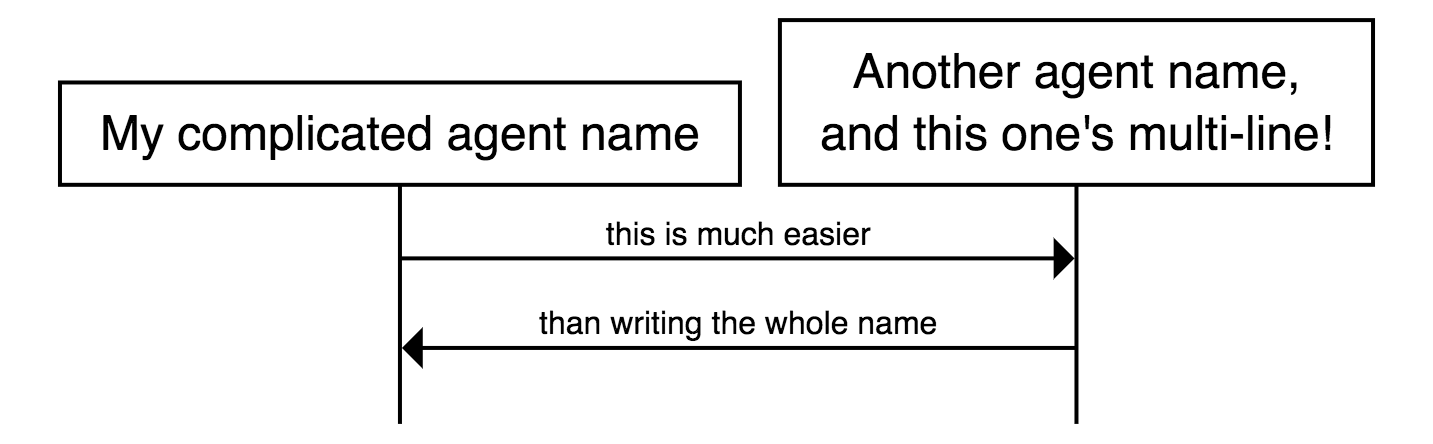
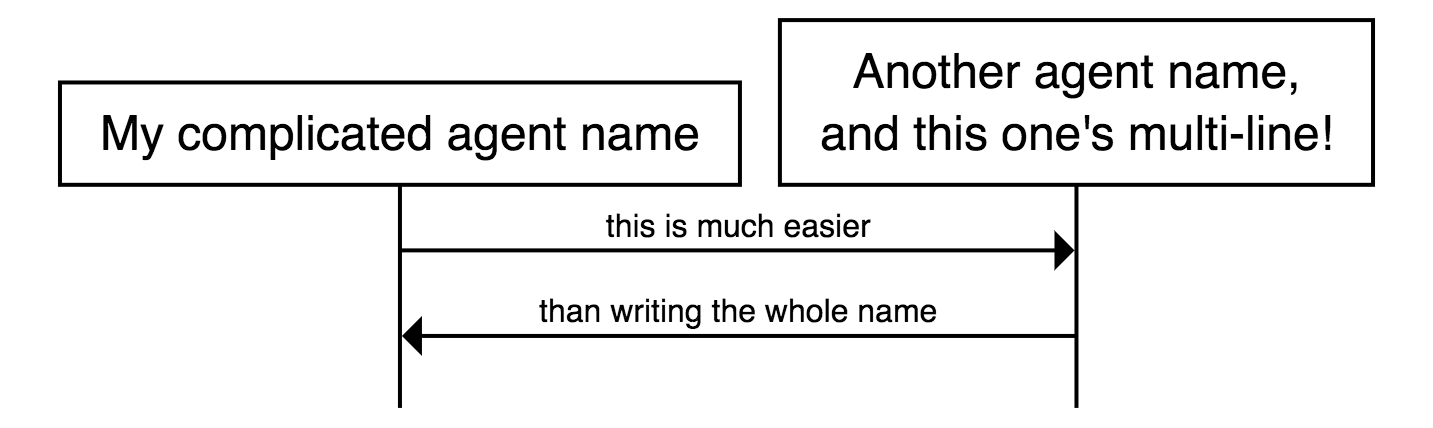
Simplify arrow rendering and fix 'bar' terminator width

diff --git a/scripts/sequence/components/Connect.js b/scripts/sequence/components/Connect.js
@@ -74,6 +74,7 @@ define([
 			const config = env.theme.connect;
 			const from = env.agentInfos.get(agentNames[0]);
 
+			const dx = config.arrow.width;
 			const dy = config.arrow.height / 2;
 			const short = getArrowShort(env.theme);
 
@@ -88,7 +89,7 @@ define([
 			const x0 = (
 				lineX +
 				short +
-				config.arrow.width +
+				dx +
 				config.label.padding
 			);
 
@@ -112,12 +113,14 @@ define([
 			);
 			const y1 = y0 + r * 2;
 
+			const space = short + dx / 2;
+
 			env.shapeLayer.appendChild(svg.make('path', Object.assign({
 				'd': (
-					'M ' + (lineX + (options.left ? short : 0)) + ' ' + y0 +
+					'M ' + (lineX + (options.left ? space : 0)) + ' ' + y0 +
 					' L ' + x1 + ' ' + y0 +
 					' A ' + r + ' ' + r + ' 0 0 1 ' + x1 + ' ' + y1 +
-					' L ' + (lineX + (options.right ? short : 0)) + ' ' + y1
+					' L ' + (lineX + (options.right ? space : 0)) + ' ' + y1
 				),
 			}, config.lineAttrs[options.line])));
 
@@ -125,7 +128,7 @@ define([
 				drawHorizontalArrowHead(env.shapeLayer, {
 					x: lineX + short,
 					y: y0,
-					dx: config.arrow.width,
+					dx,
 					dy,
 					attrs: config.arrow.attrs,
 				});
@@ -135,7 +138,7 @@ define([
 				drawHorizontalArrowHead(env.shapeLayer, {
 					x: lineX + short,
 					y: y1,
-					dx: config.arrow.width,
+					dx,
 					dy,
 					attrs: config.arrow.attrs,
 				});
@@ -149,6 +152,7 @@ define([
 			const from = env.agentInfos.get(agentNames[0]);
 			const to = env.agentInfos.get(agentNames[1]);
 
+			const dx = config.arrow.width;
 			const dy = config.arrow.height / 2;
 			const dir = (from.x < to.x) ? 1 : -1;
 			const short = getArrowShort(env.theme);
@@ -174,10 +178,12 @@ define([
 				SVGTextBlockClass: env.SVGTextBlockClass,
 			});
 
+			const space = short + dx / 2;
+
 			env.shapeLayer.appendChild(svg.make('line', Object.assign({
-				'x1': x0 + (options.left ? short : 0) * dir,
+				'x1': x0 + (options.left ? space : 0) * dir,
 				'y1': y,
-				'x2': x1 - (options.right ? short : 0) * dir,
+				'x2': x1 - (options.right ? space : 0) * dir,
 				'y2': y,
 			}, config.lineAttrs[options.line])));
 
@@ -185,7 +191,7 @@ define([
 				drawHorizontalArrowHead(env.shapeLayer, {
 					x: x0 + short * dir,
 					y,
-					dx: config.arrow.width * dir,
+					dx: dx * dir,
 					dy,
 					attrs: config.arrow.attrs,
 				});
@@ -195,7 +201,7 @@ define([
 				drawHorizontalArrowHead(env.shapeLayer, {
 					x: x1 - short * dir,
 					y,
-					dx: -config.arrow.width * dir,
+					dx: -dx * dir,
 					dy,
 					attrs: config.arrow.attrs,
 				});

diff --git a/scripts/sequence/sequence_integration_spec.js b/scripts/sequence/sequence_integration_spec.js
@@ -74,12 +74,12 @@ defineDescribe('Sequence Integration', [
 
 		const content = getSimplifiedContent(renderer);
 		expect(content).toContain(
-			'<svg width="100%" height="100%" viewBox="-5 -5 82 49">'
+			'<svg width="100%" height="100%" viewBox="-5 -5 82 47">'
 		);
 
 		// Agent 1
 		expect(content).toContain(
-			'<line x1="20.5" y1="11" x2="20.5" y2="39" class="agent-1-line"'
+			'<line x1="20.5" y1="11" x2="20.5" y2="37" class="agent-1-line"'
 		);
 		expect(content).toContain(
 			'<rect x="10" y="0" width="21" height="11"'
@@ -90,7 +90,7 @@ defineDescribe('Sequence Integration', [
 
 		// Agent 2
 		expect(content).toContain(
-			'<line x1="51.5" y1="11" x2="51.5" y2="39" class="agent-2-line"'
+			'<line x1="51.5" y1="11" x2="51.5" y2="37" class="agent-2-line"'
 		);
 		expect(content).toContain(
 			'<rect x="41" y="0" width="21" height="11"'
@@ -101,10 +101,10 @@ defineDescribe('Sequence Integration', [
 
 		// Arrow
 		expect(content).toContain(
-			'<line x1="20.5" y1="20" x2="50.29'
+			'<line x1="20.5" y1="19" x2="48.5" y2="19"'
 		);
 		expect(content).toContain(
-			'<polygon points="46.29'
+			'<polygon points="46 14 51 19 46 24"'
 		);
 	});
 

diff --git a/scripts/sequence/themes/Basic.js b/scripts/sequence/themes/Basic.js
@@ -7,7 +7,7 @@ define(['core/ArrayUtilities', 'svg/SVGShapes'], (array, SVGShapes) => {
 		titleMargin: 10,
 		outerMargin: 5,
 		agentMargin: 10,
-		actionMargin: 5,
+		actionMargin: 3,
 		agentLineHighlightRadius: 4,
 
 		agentCap: {
@@ -42,7 +42,9 @@ define(['core/ArrayUtilities', 'svg/SVGShapes'], (array, SVGShapes) => {
 			bar: {
 				attrs: {
 					'fill': '#000000',
-					'height': 5,
+					'stroke': '#000000',
+					'stroke-width': 1,
+					'height': 4,
 				},
 			},
 			none: {
@@ -66,12 +68,12 @@ define(['core/ArrayUtilities', 'svg/SVGShapes'], (array, SVGShapes) => {
 				},
 			},
 			arrow: {
-				width: 4,
-				height: 8,
+				width: 5,
+				height: 10,
 				attrs: {
 					'fill': '#000000',
-					'stroke': '#000000',
-					'stroke-width': 1,
+					'stroke': 'none',
+					'stroke-width': 0,
 					'stroke-linejoin': 'miter',
 				},
 			},

diff --git a/README.md b/README.md
@@ -175,10 +175,10 @@ Bar -> Baz
 
 ### Simultaneous Actions (Beta!)
 
-<img src="screenshots/SimultaneousActions.png" alt="Simultaneous Actions preview" width="200" align="right" />
-
 This is a work-in-progress feature. There are situations where this can
 lead to [ugly / unreadable overlapping content](https://github.com/davidje13/SequenceDiagram/issues/13).
+
+<img src="screenshots/SimultaneousActions.png" alt="Simultaneous Actions preview" width="200" align="right" />
 
 ```
 begin A, B, C, D
